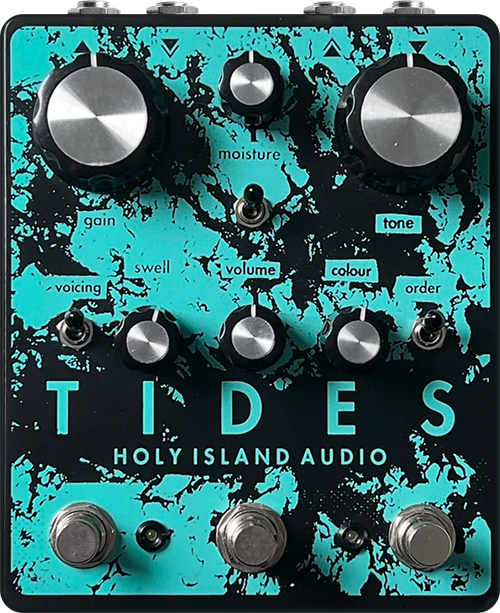
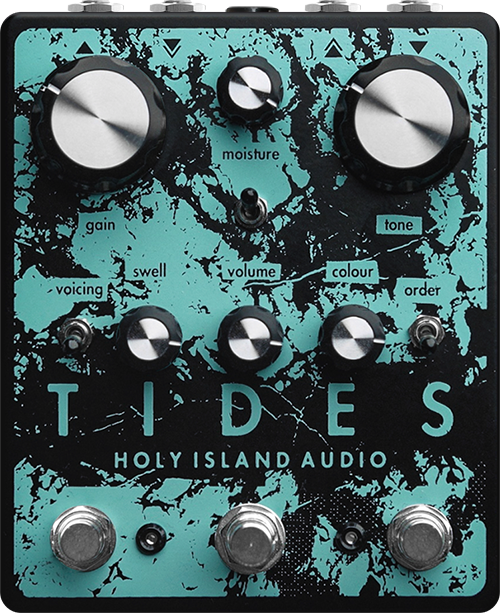
Added Holy Island pedals

diff --git a/public/stylesheets/styles.css b/public/stylesheets/styles.css
@@ -7869,7 +7869,7 @@ body .btn {
 }*/
 }
 .pedal__box {
-  border-radius: 0.5vw;
+  border-radius: 0.2vw;
   background-clip: border-box;
   position: absolute;
   top: 0;
@@ -7884,17 +7884,17 @@ body .btn {
   background-size: cover;
   position: absolute;
   border-radius: 50%;
-  width: clamp(.5vw, 25%, 1.75vw);
+  width: clamp(.5vw, 15%, .75vw);
   aspect-ratio: 1 / 1;
   translate: -50% 0%;
   box-shadow: 3px 6px 8px rgba(0, 0, 0, 0.4), 0 1px 0 rgba(255, 255, 255, 0.5) inset;
   top: 12%;
 }
 .pedal__knob1 {
-  left: 34%;
+  left: 30%;
 }
 .pedal__knob2 {
-  left: 66%;
+  left: 70%;
 }
 .pedal__switch {
   position: absolute;
@@ -7904,15 +7904,15 @@ body .btn {
   background-clip: border-box;
   border-radius: 50%;
   left: 50%;
-  width: clamp(.5vw, 20%, 1vw);
+  width: clamp(.25vw, 10%, .5vw);
   translate: -50% 0%;
   aspect-ratio: 1 / 1;
   bottom: 10%;
 }
 .pedal__name {
-  font-size: min(1.25rem, 1vw);
+  font-size: 1rem;
   text-align: center;
-  text-shadow: .3rem .3rem .1rem rgba(0, 0, 0, 0.4);
+  text-shadow: .25rem .25rem 0 rgba(0, 0, 0, 0.4);
   display: block;
   position: absolute;
   top: 48%;